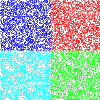
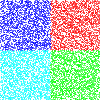
scripts to build gallery - #13

diff --git a/examples/camera_control_example.py b/examples/camera_control_example.py
@@ -24,14 +24,14 @@ def main():
     np.random.seed(0)
 
     # Create a canvas
-    canvas = Canvas(256, 512, 72.0, Constants.Color.white)
+    canvas = Canvas(512, 512, 72.0, Constants.Color.white)
 
     canvas_half_width = int(canvas.get_width() / 2.0)
     canvas_half_height = int(canvas.get_height() / 2.0)
 
     # Create a viewport and add it to the canvas
-    viewport_1 = Viewport(0, 0, canvas.get_width(), canvas_half_height, Constants.Color.transparent)
-    viewport_2 = Viewport(0, canvas_half_height, canvas.get_width(), canvas_half_height, Constants.Color.transparent)
+    viewport_1 = Viewport(0, 0, canvas_half_width, canvas_half_height, Constants.Color.transparent)
+    viewport_2 = Viewport(canvas_half_width, canvas_half_height, canvas_half_width, canvas_half_height, Constants.Color.transparent)
 
     # =============================================================================
     # Add random points
